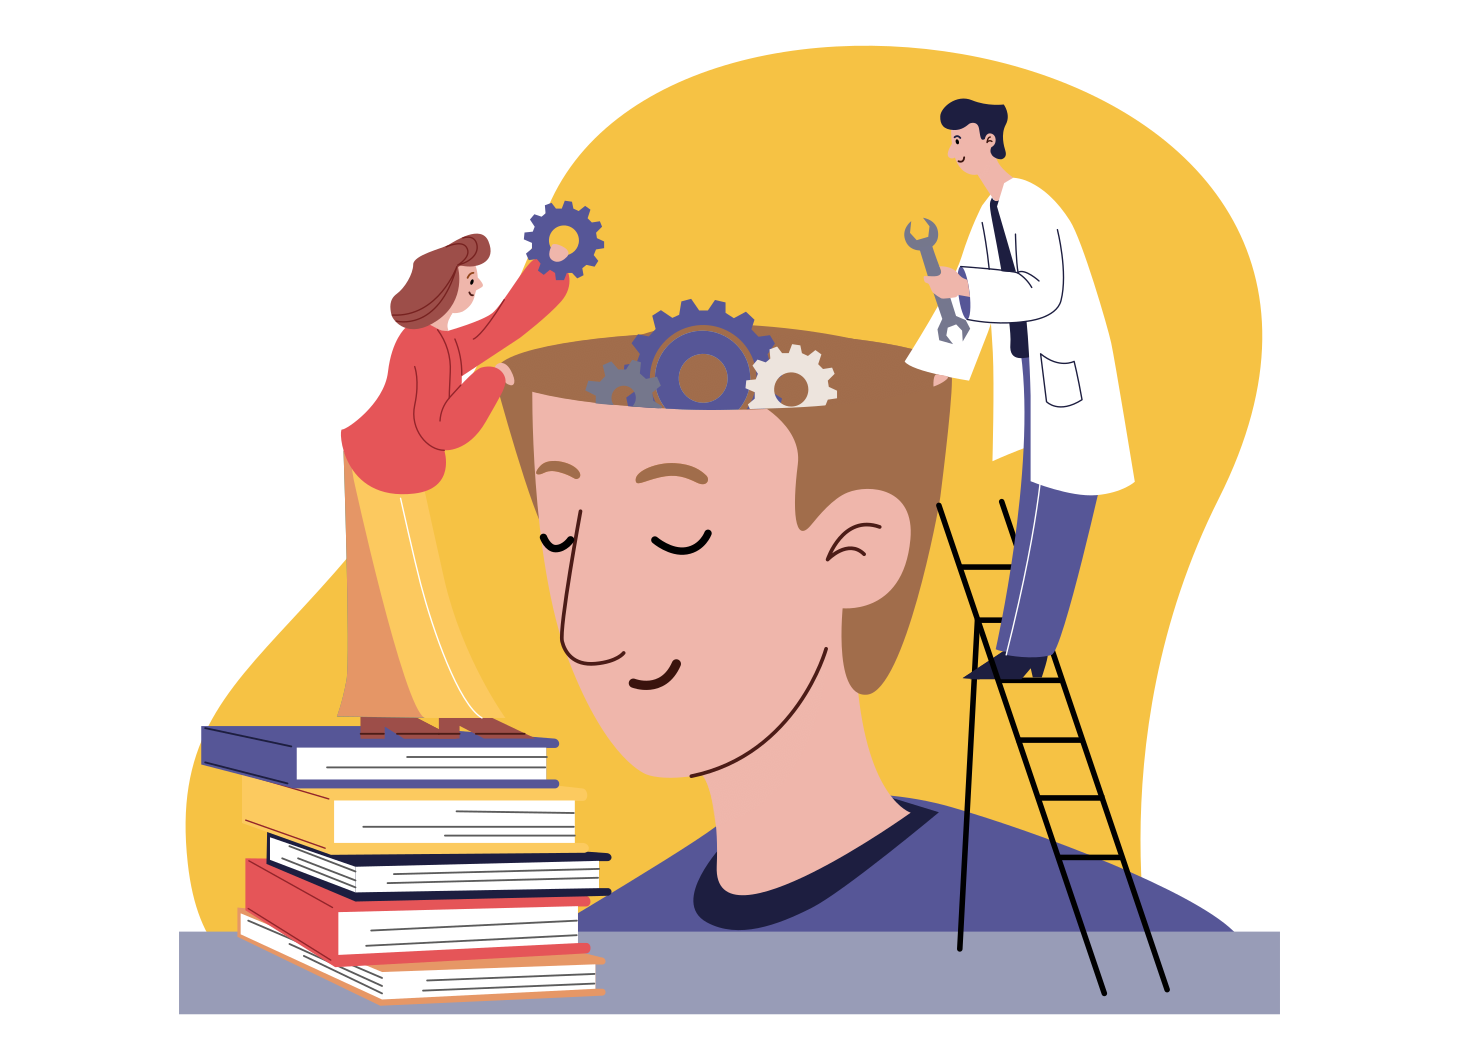
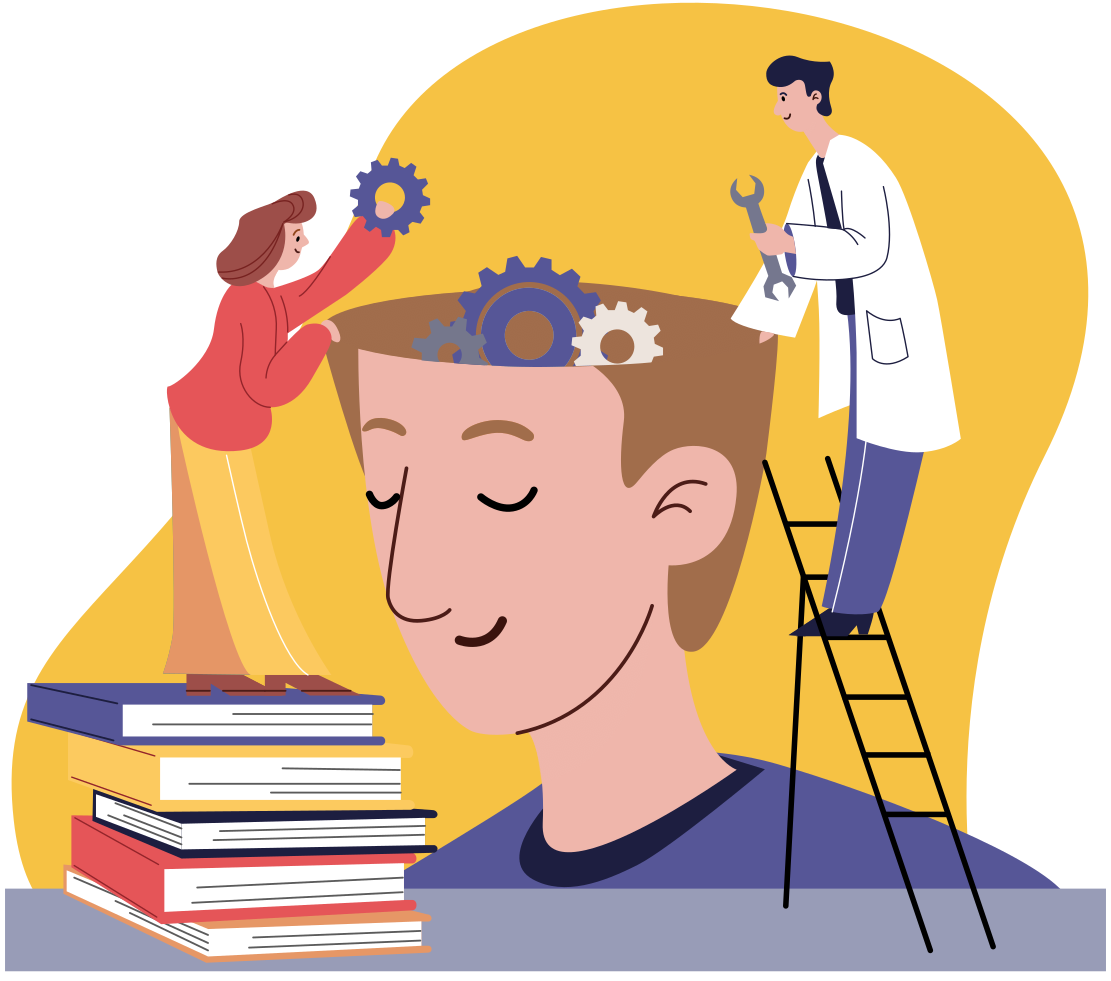
cropped header image and reformatted padding to improve appearance on smaller and large screen sizes

diff --git a/src/App.js b/src/App.js
@@ -92,7 +92,7 @@ export const App = () => {
               </div>
             </div>
           </div>
-          <div class="col-sm-6 d-flex align-items-center p-0 mb-3">
+          <div class="col-sm-6 d-flex align-items-center mb-3 pe-2 ps-0">
             <img
               className="img-fluid"
               src={MAIN_IMG}
